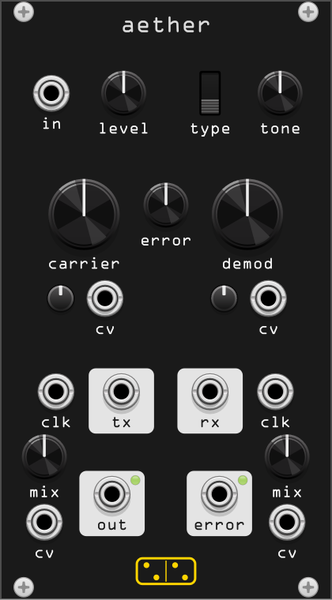
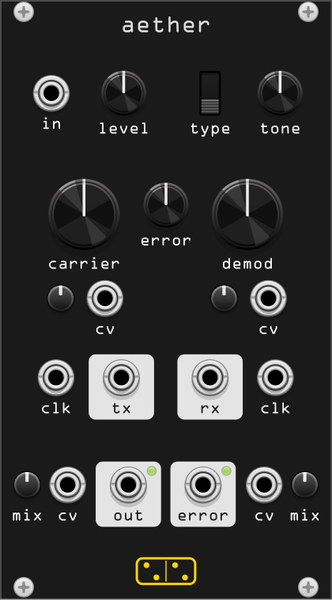
refactor(aether): the whole mix on one row across the bottom
tx, rx and their clk inputs move up 3mm, out and error come in from
24/47 to 27.5/43.5, and the bottom row now reads straight across:
trimmer, cv, out, error, cv, trimmer, with every label on one baseline.

The mix controls are trimmers rather than knobs because six full-sized
elements do not cross 14 HP: two RoundBlackKnobs, two jacks and two 14mm
badges with the house 1.5mm gaps come to 70.74 of the 71.12mm panel,
which is a fifth of a millimetre at each edge. Trimmers leave 2.8mm and
keep the badges at their standard size.

Changed region(s): [[0.0301, 0.57, 0.9639, 0.93]]

diff --git a/src/aether.cpp b/src/aether.cpp
@@ -23,11 +23,13 @@
 // documentation.
 //
 // Both signal outputs are a dry/wet against the input jack, so the module can
-// sit in an effect send without a mixer beside it.
+// sit in an effect send without a mixer beside it. The bottom row is that
+// mix: trimmer, cv, out, error, cv, trimmer — a knob apiece would have left
+// a fifth of a millimetre at the panel edges.
 //
 // Controls:
-//   Knobs : LEVEL, CARRIER, DEMOD, ERROR, TONE, OUT MIX, ERROR MIX
-//   Trim  : CARRIER CV, DEMOD CV (attenuators)
+//   Knobs : LEVEL, CARRIER, DEMOD, ERROR, TONE
+//   Trim  : CARRIER CV, DEMOD CV (attenuators), OUT MIX, ERROR MIX
 //   Switch: TYPE (the three phase comparators)
 //   In    : IN, CARRIER CV, CARRIER CLK, DEMOD CV, DEMOD CLK,
 //           OUT MIX CV, ERROR MIX CV (each attenuated by its own knob)
@@ -268,9 +270,9 @@ struct AetherWidget : ModuleWidget {
 // @elem ERROR_OUTPUT PJ301MPort 4.01 output "" 0.0
 // @elem OUT_LIGHT SmallLight 1.0 light "" 0.0
 // @elem ERROR_LIGHT SmallLight 1.0 light "" 0.0
-// @elem OUT_MIX_PARAM RoundBlackKnob 4.8 param "" 0.0
+// @elem OUT_MIX_PARAM Trimpot 3.03 param "" 0.0
 // @elem OUT_MIX_INPUT PJ301MPort 4.01 input "" 0.0
-// @elem ERROR_MIX_PARAM RoundBlackKnob 4.8 param "" 0.0
+// @elem ERROR_MIX_PARAM Trimpot 3.03 param "" 0.0
 // @elem ERROR_MIX_INPUT PJ301MPort 4.01 input "" 0.0
 // @elem LABEL_IN label 0.0 label "in" 0.0 11.00 27.50
 // @elem LABEL_LEVEL label 0.0 label "level" 0.0 26.50 28.50
@@ -281,20 +283,20 @@ struct AetherWidget : ModuleWidget {
 // @elem LABEL_DEMOD label 0.0 label "demod" 0.0 53.00 57.50
 // @elem LABEL_CCV label 0.0 label "cv" 0.0 22.50 71.50
 // @elem LABEL_DCV label 0.0 label "cv" 0.0 57.50 71.50
-// @elem LABEL_CCLK label 0.0 label "clk" 0.0 12.00 91.50
-// @elem LABEL_DCLK label 0.0 label "clk" 0.0 59.00 91.50
-// @elem BOX_TX panel_box 7.0 box "" 0.0 26.00 86.00
-// @elem LABEL_TX label 0.0 label "tx" 0.0 26.00 91.50
-// @elem BOX_RX panel_box 7.0 box "" 0.0 45.00 86.00
-// @elem LABEL_RX label 0.0 label "rx" 0.0 45.00 91.50
-// @elem BOX_OUT panel_box 7.0 box "" 0.0 24.00 108.00
-// @elem LABEL_OUT label 0.0 label "out" 0.0 24.00 113.50
-// @elem BOX_ERR panel_box 7.0 box "" 0.0 47.00 108.00
-// @elem LABEL_ERR label 0.0 label "error" 0.0 47.00 113.50
-// @elem LABEL_OMIX label 0.0 label "mix" 0.0 9.50 106.50
-// @elem LABEL_OMIXCV label 0.0 label "cv" 0.0 9.50 119.50
-// @elem LABEL_EMIX label 0.0 label "mix" 0.0 61.50 106.50
-// @elem LABEL_EMIXCV label 0.0 label "cv" 0.0 61.50 119.50
+// @elem LABEL_CCLK label 0.0 label "clk" 0.0 12.00 88.50
+// @elem LABEL_DCLK label 0.0 label "clk" 0.0 59.00 88.50
+// @elem BOX_TX panel_box 7.0 box "" 0.0 26.00 83.00
+// @elem LABEL_TX label 0.0 label "tx" 0.0 26.00 88.50
+// @elem BOX_RX panel_box 7.0 box "" 0.0 45.00 83.00
+// @elem LABEL_RX label 0.0 label "rx" 0.0 45.00 88.50
+// @elem BOX_OUT panel_box 7.0 box "" 0.0 27.50 106.00
+// @elem LABEL_OUT label 0.0 label "out" 0.0 27.50 111.50
+// @elem BOX_ERR panel_box 7.0 box "" 0.0 43.50 106.00
+// @elem LABEL_ERR label 0.0 label "error" 0.0 43.50 111.50
+// @elem LABEL_OMIX label 0.0 label "mix" 0.0 5.80 111.50
+// @elem LABEL_OMIXCV label 0.0 label "cv" 0.0 14.50 111.50
+// @elem LABEL_EMIX label 0.0 label "mix" 0.0 65.30 111.50
+// @elem LABEL_EMIXCV label 0.0 label "cv" 0.0 56.60 111.50
 // @elem LOGO forsitan_logo 0.0 logo "" 0.0 35.56 122.50
 
         addChild(createWidget<ScrewSilver>(mm2px(Vec(2.54f, 0.00f)))); // SCREW_TL
@@ -312,18 +314,18 @@ struct AetherWidget : ModuleWidget {
         addInput(createInputCentered<PJ301MPort>(mm2px(Vec(22.50f, 64.00f)), module, Aether::CARRIER_CV_INPUT));
         addParam(createParamCentered<Trimpot>(mm2px(Vec(48.00f, 64.00f)), module, Aether::DEMOD_CV_PARAM));
         addInput(createInputCentered<PJ301MPort>(mm2px(Vec(57.50f, 64.00f)), module, Aether::DEMOD_CV_INPUT));
-        addInput(createInputCentered<PJ301MPort>(mm2px(Vec(12.00f, 84.00f)), module, Aether::CARRIER_CLK_INPUT));
-        addOutput(createOutputCentered<PJ301MPort>(mm2px(Vec(26.00f, 84.00f)), module, Aether::CARRIER_OUTPUT));
-        addInput(createInputCentered<PJ301MPort>(mm2px(Vec(59.00f, 84.00f)), module, Aether::DEMOD_CLK_INPUT));
-        addOutput(createOutputCentered<PJ301MPort>(mm2px(Vec(45.00f, 84.00f)), module, Aether::DEMOD_OUTPUT));
-        addOutput(createOutputCentered<PJ301MPort>(mm2px(Vec(24.00f, 106.00f)), module, Aether::SIGNAL_OUTPUT));
-        addOutput(createOutputCentered<PJ301MPort>(mm2px(Vec(47.00f, 106.00f)), module, Aether::ERROR_OUTPUT));
-        addChild(createLightCentered<SmallLight<GreenLight>>(mm2px(Vec(29.00f, 103.00f)), module, Aether::OUT_LIGHT));
-        addChild(createLightCentered<SmallLight<GreenLight>>(mm2px(Vec(52.00f, 103.00f)), module, Aether::ERROR_LIGHT));
-        addParam(createParamCentered<RoundBlackKnob>(mm2px(Vec(9.50f, 98.00f)), module, Aether::OUT_MIX_PARAM));
-        addInput(createInputCentered<PJ301MPort>(mm2px(Vec(9.50f, 112.00f)), module, Aether::OUT_MIX_INPUT));
-        addParam(createParamCentered<RoundBlackKnob>(mm2px(Vec(61.50f, 98.00f)), module, Aether::ERROR_MIX_PARAM));
-        addInput(createInputCentered<PJ301MPort>(mm2px(Vec(61.50f, 112.00f)), module, Aether::ERROR_MIX_INPUT));
+        addInput(createInputCentered<PJ301MPort>(mm2px(Vec(12.00f, 81.00f)), module, Aether::CARRIER_CLK_INPUT));
+        addOutput(createOutputCentered<PJ301MPort>(mm2px(Vec(26.00f, 81.00f)), module, Aether::CARRIER_OUTPUT));
+        addInput(createInputCentered<PJ301MPort>(mm2px(Vec(59.00f, 81.00f)), module, Aether::DEMOD_CLK_INPUT));
+        addOutput(createOutputCentered<PJ301MPort>(mm2px(Vec(45.00f, 81.00f)), module, Aether::DEMOD_OUTPUT));
+        addOutput(createOutputCentered<PJ301MPort>(mm2px(Vec(27.50f, 104.00f)), module, Aether::SIGNAL_OUTPUT));
+        addOutput(createOutputCentered<PJ301MPort>(mm2px(Vec(43.50f, 104.00f)), module, Aether::ERROR_OUTPUT));
+        addChild(createLightCentered<SmallLight<GreenLight>>(mm2px(Vec(32.50f, 101.00f)), module, Aether::OUT_LIGHT));
+        addChild(createLightCentered<SmallLight<GreenLight>>(mm2px(Vec(48.50f, 101.00f)), module, Aether::ERROR_LIGHT));
+        addParam(createParamCentered<Trimpot>(mm2px(Vec(5.80f, 104.00f)), module, Aether::OUT_MIX_PARAM));
+        addInput(createInputCentered<PJ301MPort>(mm2px(Vec(14.50f, 104.00f)), module, Aether::OUT_MIX_INPUT));
+        addParam(createParamCentered<Trimpot>(mm2px(Vec(65.30f, 104.00f)), module, Aether::ERROR_MIX_PARAM));
+        addInput(createInputCentered<PJ301MPort>(mm2px(Vec(56.60f, 104.00f)), module, Aether::ERROR_MIX_INPUT));
         // @layout:end
     }
 

diff --git a/doc/aether.md b/doc/aether.md
@@ -63,13 +63,13 @@ standalone oscillator when nothing is patched at all.
 | **demod** | the receiver's clock, same range |
 | **error** | comparator threshold for the **error** output, ±5 V |
 | **tone** | one passive pole, 60 Hz – 12 kHz. It sits in the PLL loop *and* on the output, so it is a tracking control as much as a tone control |
-| **mix** (left) | dry/wet for **out**, wet by default — see [the two mixes](#the-two-mixes) |
-| **mix** (right) | dry/wet for **error**, the same |
 
 | trimpot | function |
 |---------|----------|
 | **cv** (left) | attenuator for the carrier's CV input |
 | **cv** (right) | attenuator for the demodulator's CV input |
+| **mix** (left) | dry/wet for **out**, wet by default — see [the two mixes](#the-two-mixes) |
+| **mix** (right) | dry/wet for **error**, the same |
 
 | switch | function |
 |--------|----------|
@@ -80,7 +80,7 @@ standalone oscillator when nothing is patched at all.
 | **in** | signal in. Unpatched, it is a +5 V bias |
 | **cv** ×2 | exponential CV over each clock, 1 V/oct at a fully open attenuator. **Unpatched, each is fed the signal itself**, so its attenuator becomes audio-rate FM depth |
 | **clk** ×2 | external clock in. Any signal crossing zero replaces that side's internal clock, and that side's CV stops doing anything |
-| **cv** ×2 (bottom) | CV over the **mix** knob above it. Patched, that knob becomes its attenuator: 0–10 V is dry to wet |
+| **cv** ×2 (bottom) | CV over the **mix** trimmer beside it. Patched, that trimmer becomes its attenuator: 0–10 V is dry to wet |
 | **out** | the recovered signal, with a level LED |
 | **error** | a comparator across input and output, with a level LED |
 | **tx** | the carrier clock, a wide-range square. Not 1 V/oct |
@@ -156,10 +156,16 @@ Each signal output has its own dry/wet against the signal at the **in** jack,
 so aether can sit in an effect send with nothing else beside it. The dry side
 is the jack itself, before **level**: it is the path that does nothing.
 
-There is no attenuverter. Unpatched, the **mix** knob is the amount. Patched,
-it becomes the attenuator for the **cv** jack below it, so 0–10 V sweeps dry
-to wet at a knob left wherever it already was, and the two behaviours agree
-at a knob fully clockwise. Negative volts do not push past dry.
+There is no attenuverter. Unpatched, the **mix** trimmer is the amount.
+Patched, it becomes the attenuator for the **cv** jack beside it, so 0–10 V
+sweeps dry to wet at a trimmer left wherever it already was, and the two
+behaviours agree with the trimmer fully clockwise. Negative volts do not push
+past dry.
+
+They are trimmers rather than knobs because the whole mix is one row —
+trimmer, **cv**, **out**, **error**, **cv**, trimmer — and six full-sized
+controls do not fit across 14 HP: a knob apiece leaves a fifth of a
+millimetre at each panel edge.
 
 Both default to fully wet, and with nothing in **in** the dry side is silence
 — the broken radio only speaks at the wet end of the knob.
@@ -179,7 +185,7 @@ wet/dry control made of square waves. It is the output to take for drums.
 - **Modem melodies.** A melodic sequence into **in**, the same pitch CV into
   the carrier's **cv**, something slower into the demodulator's **cv**.
 - **Glitch distortion.** Audio in, listen to **error**, both clocks low, and
-  use the **error** knob as the wet/dry — or the **mix** knob beside that
+  use the **error** knob as the wet/dry — or the **mix** trimmer beside that
   output, which is one against the dry signal itself.
 - **Playing the clock.** A 1 V/oct oscillator into the carrier's **clk** with
   nothing in **in**: you are now playing the transmitter's clock rate, and
@@ -233,7 +239,7 @@ What is inference, and should be treated as such:
   move the sweet spots around the knobs; they do not change the class of
   sound.
 
-What is added, and is not on the hardware at all: the two **mix** knobs and
+What is added, and is not on the hardware at all: the two **mix** trimmers and
 their CV inputs. The hardware has no dry/wet — a rack patches one — but in
 Rack the module is as likely to sit in an effect send as in a voice, and a
 crossfade there costs a knob rather than a mixer channel. Fully clockwise,

diff --git a/CHANGELOG.md b/CHANGELOG.md
@@ -88,12 +88,13 @@ and this project adheres to [Semantic Versioning](http://semver.org/).
     audio-rate FM depth. Either **clk** input replaces its side's converter
     clock without silencing the clock output beside it.
 
-    Both signal outputs are a dry/wet against the **in** jack, one **mix** knob
-    at each bottom corner, so the module can sit in an effect send with nothing
-    beside it. Neither has an attenuverter: unpatched the knob is the amount,
-    and patched it is the attenuator for the **cv** jack under it, so 0-10 V
-    sweeps dry to wet from wherever the hand left the knob. Both start fully
-    wet, which is where the hardware, having no such control, always is.
+    Both signal outputs are a dry/wet against the **in** jack, so the module can
+    sit in an effect send with nothing beside it. The bottom row is that mix,
+    read across: trimmer, **cv**, **out**, **error**, **cv**, trimmer. Neither
+    has an attenuverter — unpatched the trimmer is the amount, and patched it
+    is the attenuator for the **cv** jack beside it, so 0-10 V sweeps dry to
+    wet from wherever the hand left it. Both start fully wet, which is where
+    the hardware, having no such control, always is.
 
     Clock ticks are scheduled in continuous time and the loop filter is
     integrated between them, so the aliasing is the modelled carrier's and not
